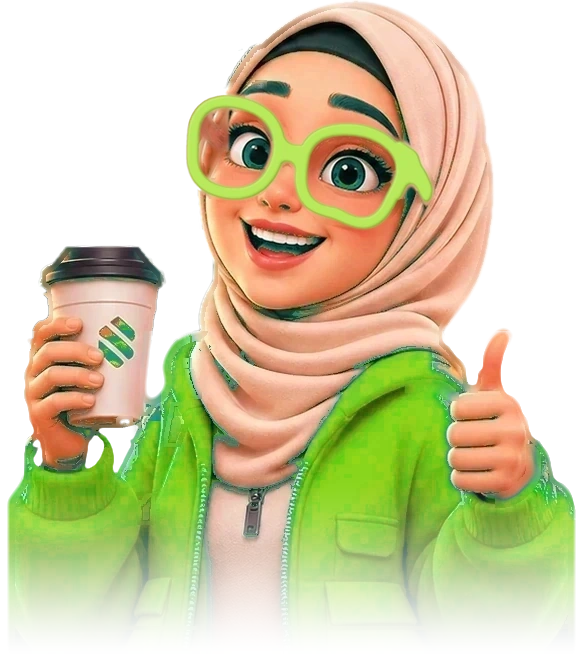
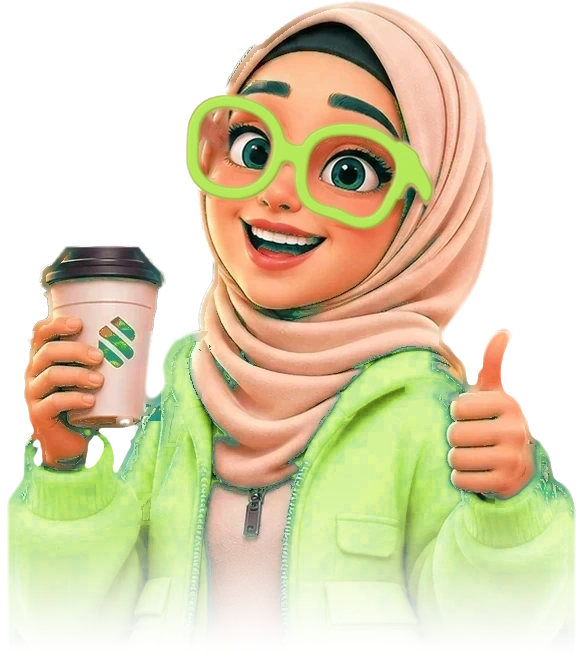
Hero jackets: brand-colour shading ramps for lime, deep and teal

Changed region(s): [[0.4932, 0.5144, 0.9863, 0.938], [0.0, 0.4841, 0.4007, 0.9077], [0.8938, 0.6657, 0.9555, 0.6959]]

diff --git a/components/Hero.tsx b/components/Hero.tsx
@@ -9,7 +9,7 @@ import { SITE_CONFIG } from "@/constants/site";
 const HERO_IMAGE = "/images/avatar-person10.webp";
 
 /** The jacket colour changes with the background so it always keeps its contrast. */
-const JACKET = ["/images/avatar-jlime.webp", "/images/avatar-jdeep.webp", HERO_IMAGE];
+const JACKET = ["/images/avatar-jlime.webp", "/images/avatar-jdeep.webp", "/images/avatar-jprim.webp"];
 const HERO_VIDEO = "";
 
 const SLIDES = [
